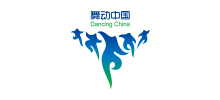
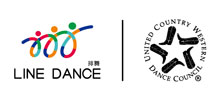
修改图片，添加国际版

Changed region(s): [[0.0545, 0.09, 0.9545, 0.9]]

diff --git a/qwebsite-front/src/main/resources/templates/screen/endownload/index.html b/qwebsite-front/src/main/resources/templates/screen/endownload/index.html
@@ -1,21 +1,24 @@
 <#assign title="新闻动态"/>
-<#assign parentChannelId=4/>
+<#assign parentChannelId=6/>
 <#include "/layout/layout.html"/>
 
 <#macro content>
+        <@channel_bean id=channel.parentId>
+        <#assign pChannel= tag_bean/>
+    </@channel_bean>
     <!--end导航-->
     <div class="i_banner"><img src="${path}/images/i_banner/video.jpg" alt="新闻资讯" class="i_banner_img"></div>
     <!--end大图片-->
 
-    <dl class="site_th w_1200"><dd>您所在的位置：<a href="${path}/index.htm">首页</a><em class="china">&gt;</em><a href="./index.jhtm">下载中心</a><em class="china">&gt;</em><b class="orange_text">${channel.name!''}</b></dd></dl>
+    <dl class="site_th w_1200"><dd>您所在的位置：<a href="${path}/index.htm">首页</a><em class="china">&gt;</em><a href="./index.jhtm">${pChannel.name}</a><em class="china">&gt;</em><b class="orange_text">${channel.name!''}</b></dd></dl>
 
     <div class="box_shadow clearfix box_w w_1200">
         <div class="i_center clearfix">
             <div class="fl w_220">
                 <div class="l_nav clearfix">
-                    <h4 class="l_th"><span class="fr png eng">Down</span><div class="r_cell">下载中心</div></h4>
+                    <h4 class="l_th"><span class="fr png eng">Video</span><div class="r_cell"><#if pChannel.name?length gt 4><span class="more_text">${pChannel.name}</span><#else>${pChannel.name}</#if></div></h4>
                     <ul class="l_nav_ul click_ul">
-                        <@channel_list parentId=10>
+                        <@channel_list parentId=pChannel.id>
                             <#list tag_list as item>
                                 <li <#if item.id= channel.id> class="active" </#if>> <a href="${path}/${item.channelPath}/index.jhtm" data-channel-id="${item.id}" class="png">${item.name!''}</a></li>
                             </#list>
@@ -44,14 +47,16 @@
         <li><span class="fr">{{item.contentExt.releaseDate | dateFormat}}</span>
             {{if item.contentAttachments[0]}}
             <a target="_blank" href="${root.viewPath}{{item.contentAttachments[0].attachmentPath}}" class="hide1">{{item.contentExt.title}}</a>
+            <a target="_blank" href="${root.viewPath}{{item.contentAttachments[0].attachmentPath}}"><img src="${path}/images/download.png" style="height:20px;cursor:pointer;"></a>
             {{else}}
-            <a href="javascript:void(0)" class="hide1">{{item.contentExt.title}}</a>
+            <a href="javascript:void(0)" class="hide1" style="cursor: default">{{item.contentExt.title}}</a>
             {{/if}}
         </li>
         {{/each}}
         {{else}}
         <li>暂无数据</li>
         {{/if}}
+
     </script>
     <script type="text/javascript">
         $(function (){

diff --git a/qwebsite-front/src/main/resources/templates/screen/credentials/index.html b/qwebsite-front/src/main/resources/templates/screen/credentials/index.html
@@ -25,7 +25,7 @@
                 </div>
 
                 <input type="text" name="name" class="round_m search_text" placeholder="您的姓名" datatype="zhen" nullmsg="请输入你的姓名">
-                <input type="text" name="cardNo" class="round_m search_text" placeholder="您的身份证号码" style="width: 230px;" datatype="IdentityCode" nullmsg="请输入身份证号">
+                <input type="text" name="cardNo" class="round_m search_text" placeholder="您的身份证号码" style="width: 230px;" nullmsg="请输入身份证号">
                 <input type="submit" class="search_btn round_m" value="马上查询">
             </div>
             </form>

diff --git a/qwebsite-front/src/main/resources/templates/screen/download/index.html b/qwebsite-front/src/main/resources/templates/screen/download/index.html
@@ -7,7 +7,7 @@
         <#assign pChannel= tag_bean/>
     </@channel_bean>
     <!--end导航-->
-    <div class="i_banner"><img src="${path}/images/i_banner/download.jpg" alt="新闻资讯" class="i_banner_img"></div>
+    <div class="i_banner"><img src="${path}/images/i_banner/video.jpg" alt="新闻资讯" class="i_banner_img"></div>
     <!--end大图片-->
 
     <dl class="site_th w_1200"><dd>您所在的位置：<a href="${path}/index.htm">首页</a><em class="china">&gt;</em><a href="./index.jhtm">下载中心</a><em class="china">&gt;</em><b class="orange_text">${channel.name!''}</b></dd></dl>
